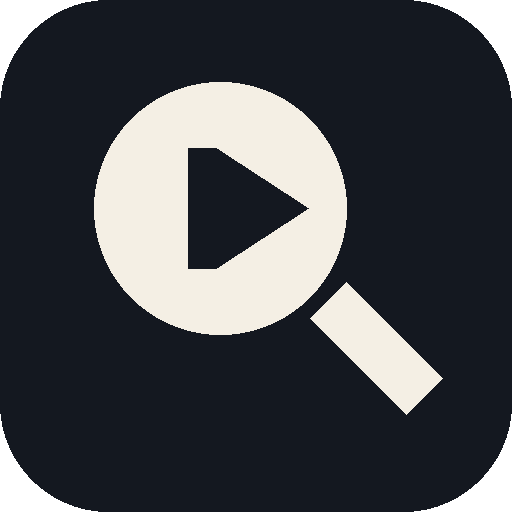
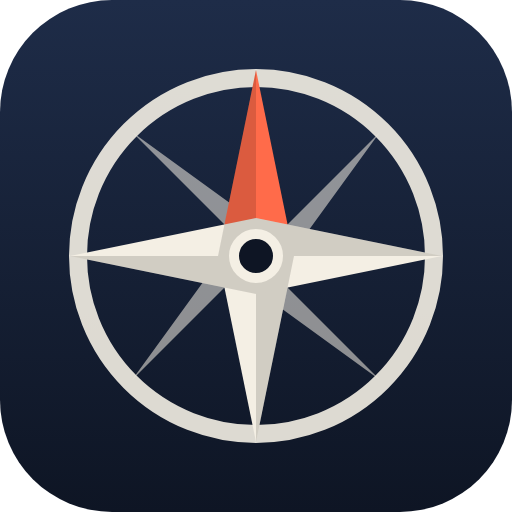
Pusula simgesi; dock'taki simge uygulama açılınca da görünsün
Ad Compass olunca simge de pusula oldu: lacivert zemin, mercan kuzey ucu ve
krem pusula gülü; 16 pikselde de okunuyor. Dock pencereyi ancak menü
kısayoluyla eşleştirince simgeyi gösteriyordu; kısayol yalnızca npm run
kisayol ile kuruluyordu. Artık npm start açılışta kısayolu ve simgeleri
kendisi kuruyor ya da güncelliyor; güncelse hiçbir şey yazmıyor.

Claude-Session: https://claude.ai/code/session_01AymLfxAtTPx6kYKee8CYCW

diff --git a/bin/kisayol.js b/bin/kisayol.js
@@ -1,12 +1,10 @@
 #!/usr/bin/env node
 // Linux'ta uygulama menüsüne "Compass" kısayolu ve simgesi ekler.
-// GNOME/KDE pencereyi bu .desktop dosyasıyla eşleştirir; dosya yoksa görev
-// çubuğunda genel çark simgesi görünür. Yalnızca kullanıcının kendi klasörüne yazar.
+// Uygulama (npm start) bunu açılışta kendisi de yapar; bu komut elle yenilemek içindir.
 import fs from 'node:fs';
-import os from 'node:os';
 import path from 'node:path';
-import { spawnSync } from 'node:child_process';
 import { fileURLToPath } from 'node:url';
+import { installDesktopEntry } from '../src/desktop-entry.js';
 
 if (process.platform !== 'linux') {
   console.log('Bu komut yalnızca Linux içindir. Windows ve macOS kurulum dosyası simgeyi kendisi ekler.');
@@ -20,50 +18,6 @@ if (!fs.existsSync(electron)) {
   process.exit(1);
 }
 
-const data = process.env.XDG_DATA_HOME || path.join(os.homedir(), '.local', 'share');
-const appDir = path.join(data, 'applications');
-fs.mkdirSync(appDir, { recursive: true });
-// Dock her boyutta net görünsün: vektör simge ve hazır boyutlar birlikte kurulur;
-// yalnızca 512'lik simge olunca bazı masaüstleri küçük bir kopyayı büyütüp bulanıklaştırıyor.
-const install = (from, size, ext) => {
-  const dir = path.join(data, 'icons', 'hicolor', size, 'apps');
-  fs.mkdirSync(dir, { recursive: true });
-  fs.copyFileSync(from, path.join(dir, `compass.${ext}`));
-};
-install(path.join(root, 'public', 'icon.svg'), 'scalable', 'svg');
-for (const f of fs.readdirSync(path.join(root, 'build', 'icons'))) {
-  if (/^\d+x\d+\.png$/.test(f)) install(path.join(root, 'build', 'icons', f), f.slice(0, -4), 'png');
-}
-
-const q = (s) => `"${s.replace(/(["`$\\])/g, '\\$1')}"`;
-const iconPng = path.join(root, 'build', 'icon.png');
-// Icon=tema adı bazı masaüstlerinde önbelleğe takılıp boş görünür.
-// Mutlak png yolu dock'ta hemen çizilir.
-const desktop = `[Desktop Entry]
-Type=Application
-Version=1.0
-Name=Compass
-GenericName=Torrent arama
-Comment=Film, dizi ve kitap ara, indir, izle
-Exec=${q(electron)} ${q(root)} --class=compass %U
-Icon=${iconPng}
-Terminal=false
-Categories=AudioVideo;Network;FileTransfer;
-Keywords=torrent;film;dizi;video;
-StartupNotify=true
-StartupWMClass=compass
-`;
-const file = path.join(appDir, 'compass.desktop');
-// Uygulamanın eski adıyla ("Torrent Bul") kurulmuş kısayol ve simgeler kaldırılır; menüde iki kayıt kalmasın.
-fs.rmSync(path.join(appDir, 'torrent-bul.desktop'), { force: true });
-for (const size of fs.readdirSync(path.join(data, 'icons', 'hicolor'))) {
-  for (const ext of ['png', 'svg']) fs.rmSync(path.join(data, 'icons', 'hicolor', size, 'apps', `torrent-bul.${ext}`), { force: true });
-}
-fs.writeFileSync(file, desktop);
-fs.chmodSync(file, 0o755);
-// Menünün hemen yenilenmesi için; araç yoksa sorun değil.
-spawnSync('update-desktop-database', [appDir], { stdio: 'ignore' });
-spawnSync('gtk-update-icon-cache', ['-f', '-t', path.join(data, 'icons', 'hicolor')], { stdio: 'ignore' });
-
+const { file } = installDesktopEntry({ root, electron });
 console.log(`Kısayol eklendi: ${file}`);
 console.log('Uygulama menüsünde "Compass" diye aratabilirsin. Klasörü taşırsan bu komutu yeniden çalıştır.');

diff --git a/src/desktop-entry.js b/src/desktop-entry.js
@@ -1,0 +1,62 @@
+// Linux'ta uygulama menüsüne "Compass" kısayolu ve simgesi ekler.
+// GNOME/KDE pencereyi bu .desktop dosyasıyla eşleştirir; dosya yoksa dock'ta
+// genel çark simgesi görünür. Yalnızca kullanıcının kendi klasörüne yazar.
+import fs from 'node:fs';
+import os from 'node:os';
+import path from 'node:path';
+import { spawnSync } from 'node:child_process';
+
+const q = (s) => `"${s.replace(/(["`$\\])/g, '\\$1')}"`;
+
+// Icon= tema adı bazı masaüstlerinde önbelleğe takılıp boş görünür; mutlak png yolu dock'ta hemen çizilir.
+export function desktopEntry({ root, electron }) {
+  return `[Desktop Entry]
+Type=Application
+Version=1.0
+Name=Compass
+GenericName=Torrent arama
+Comment=Film, dizi ve kitap ara, indir, izle
+Exec=${q(electron)} ${q(root)} --class=compass %U
+Icon=${path.join(root, 'build', 'icon.png')}
+Terminal=false
+Categories=AudioVideo;Network;FileTransfer;
+Keywords=torrent;film;dizi;video;pusula;
+StartupNotify=true
+StartupWMClass=compass
+`;
+}
+
+// Kısayol ve simgeler güncelse hiçbir şey yazılmaz; uygulama her açılışta çağırabilir.
+export function installDesktopEntry({ root, electron, data = process.env.XDG_DATA_HOME || path.join(os.homedir(), '.local', 'share') }) {
+  const appDir = path.join(data, 'applications');
+  const icons = path.join(data, 'icons', 'hicolor');
+  const file = path.join(appDir, 'compass.desktop');
+  const text = desktopEntry({ root, electron });
+  const svg = fs.readFileSync(path.join(root, 'public', 'icon.svg'));
+  const svgTarget = path.join(icons, 'scalable', 'apps', 'compass.svg');
+  const same = (p, content) => { try { return fs.readFileSync(p).equals(Buffer.from(content)); } catch { return false; } };
+  if (same(file, text) && same(svgTarget, svg)) return { file, changed: false };
+
+  // Dock her boyutta net görünsün: vektör simge ve hazır boyutlar birlikte kurulur.
+  const install = (from, size, ext) => {
+    const dir = path.join(icons, size, 'apps');
+    fs.mkdirSync(dir, { recursive: true });
+    fs.copyFileSync(from, path.join(dir, `compass.${ext}`));
+  };
+  install(path.join(root, 'public', 'icon.svg'), 'scalable', 'svg');
+  for (const f of fs.readdirSync(path.join(root, 'build', 'icons'))) {
+    if (/^\d+x\d+\.png$/.test(f)) install(path.join(root, 'build', 'icons', f), f.slice(0, -4), 'png');
+  }
+  fs.mkdirSync(appDir, { recursive: true });
+  fs.writeFileSync(file, text);
+  fs.chmodSync(file, 0o755);
+  // Uygulamanın eski adıyla ("Torrent Bul") kurulmuş kısayol ve simgeler kaldırılır; menüde iki kayıt kalmasın.
+  fs.rmSync(path.join(appDir, 'torrent-bul.desktop'), { force: true });
+  for (const size of fs.readdirSync(icons)) {
+    for (const ext of ['png', 'svg']) fs.rmSync(path.join(icons, size, 'apps', `torrent-bul.${ext}`), { force: true });
+  }
+  // Menünün ve dock'un hemen yenilenmesi için; araç yoksa sorun değil.
+  spawnSync('update-desktop-database', [appDir], { stdio: 'ignore' });
+  spawnSync('gtk-update-icon-cache', ['-f', '-t', icons], { stdio: 'ignore' });
+  return { file, changed: true };
+}

diff --git a/test/desktop-entry.test.js b/test/desktop-entry.test.js
@@ -1,0 +1,30 @@
+import test from 'node:test';
+import assert from 'node:assert/strict';
+import fs from 'node:fs';
+import os from 'node:os';
+import path from 'node:path';
+import { fileURLToPath } from 'node:url';
+import { installDesktopEntry } from '../src/desktop-entry.js';
+
+const root = path.resolve(path.dirname(fileURLToPath(import.meta.url)), '..');
+
+test('menü kısayolu Compass adıyla kurulur, eski Torrent Bul kaydı silinir, güncelse yeniden yazılmaz', () => {
+  const data = fs.mkdtempSync(path.join(os.tmpdir(), 'compass-desktop-'));
+  fs.mkdirSync(path.join(data, 'applications'), { recursive: true });
+  fs.mkdirSync(path.join(data, 'icons', 'hicolor', '512x512', 'apps'), { recursive: true });
+  fs.writeFileSync(path.join(data, 'applications', 'torrent-bul.desktop'), '[Desktop Entry]\nName=Torrent Bul\n');
+  fs.writeFileSync(path.join(data, 'icons', 'hicolor', '512x512', 'apps', 'torrent-bul.png'), 'eski');
+
+  const first = installDesktopEntry({ root, electron: '/opt/electron', data });
+  assert.equal(first.changed, true);
+  const text = fs.readFileSync(path.join(data, 'applications', 'compass.desktop'), 'utf8');
+  assert.match(text, /^Name=Compass$/m);
+  assert.match(text, /^StartupWMClass=compass$/m);
+  assert.match(text, /--class=compass/);
+  assert.ok(fs.existsSync(path.join(data, 'icons', 'hicolor', 'scalable', 'apps', 'compass.svg')));
+  assert.ok(fs.existsSync(path.join(data, 'icons', 'hicolor', '48x48', 'apps', 'compass.png')));
+  assert.ok(!fs.existsSync(path.join(data, 'applications', 'torrent-bul.desktop')));
+  assert.ok(!fs.existsSync(path.join(data, 'icons', 'hicolor', '512x512', 'apps', 'torrent-bul.png')));
+
+  assert.equal(installDesktopEntry({ root, electron: '/opt/electron', data }).changed, false);
+});

diff --git a/electron/main.js b/electron/main.js
@@ -4,6 +4,7 @@ import path from 'node:path';
 import { fileURLToPath } from 'node:url';
 import { startServer } from '../src/server.js';
 import { magnetFromArgv } from '../src/magnet.js';
+import { installDesktopEntry } from '../src/desktop-entry.js';
 
 const here = path.dirname(fileURLToPath(import.meta.url));
 // Linux dock simgesi .desktop dosyasındaki StartupWMClass ile eşleşir.
@@ -14,6 +15,15 @@ if (process.platform === 'linux' && !app.commandLine.hasSwitch('class')) {
 // Eski adla ("Torrent Bul") kaydedilmiş ayarlar, indirmeler ve kütüphane yerinde kalsın.
 const legacyData = path.join(app.getPath('appData'), 'Torrent Bul');
 if (fs.existsSync(legacyData)) app.setPath('userData', legacyData);
+// Geliştirme sürümünde (npm start) menü kısayolu ve simge açılışta kurulur/güncellenir;
+// dock pencereyi kısayolla eşleştirip pusula simgesini gösterir. Kurulum paketleri bunu kendisi yapar.
+if (process.platform === 'linux' && !app.isPackaged) {
+  try {
+    installDesktopEntry({ root: app.getAppPath(), electron: process.execPath });
+  } catch (err) {
+    console.warn('[simge] kısayol kurulamadı:', err.message);
+  }
+}
 let server;
 let win = null;
 let tray = null;

diff --git a/README.md b/README.md
@@ -51,7 +51,7 @@ npm install
 npm run kisayol                    # Linux only, if you did not use the installer
 ```
 
-Open **Compass** from the application menu. The packaged build already has a menu entry and a dock icon, so `npm run kisayol` is only for a source checkout. `npm start` still works.
+Open **Compass** from the application menu. The packaged build already has a menu entry and a dock icon, so `npm run kisayol` is only for a source checkout. On Linux, `npm start` also adds or refreshes the menu entry and the compass icon on each launch, so the dock shows the icon while the app runs.
 
 In a browser: `npm run web` opens `http://127.0.0.1:4517`.
 
